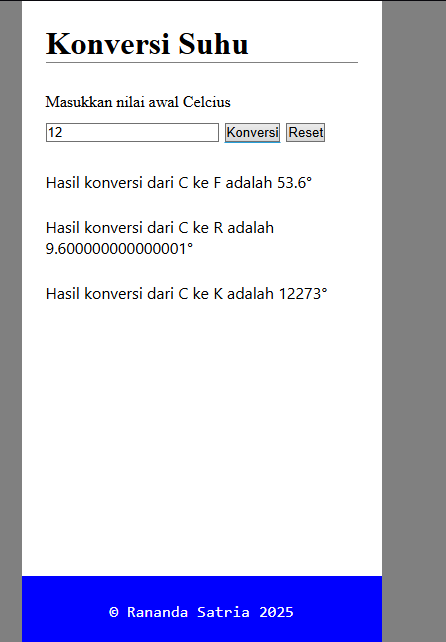
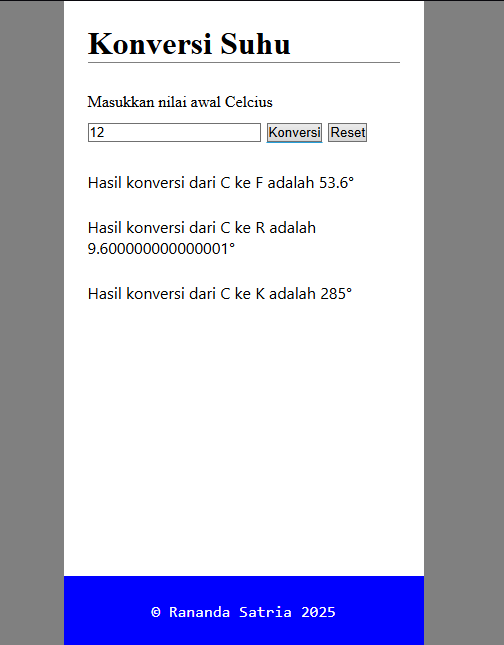
fix: change input data type to number

Changed region(s): [[0.0291, 0.0, 0.8744, 1.0], [0.2332, 0.9346, 0.6704, 0.9657]]

diff --git a/index.html b/index.html
@@ -12,7 +12,7 @@
               <form id="form-suhu">
                 <label for="celcius">Masukkan nilai awal Celcius</label>
                 <div>
-                    <input type="text" name="celcius" id="celcius">
+                    <input type="number" name="celcius" id="celcius">
                     <button type="submit">Konversi</button>
                     <button type="reset">Reset</button>
                 </div>

diff --git a/script.js b/script.js
@@ -21,15 +21,15 @@ form.addEventListener('submit', function (event){
       
 
 function celciusToFahrenheit(celcius) {
-    return (celcius * 9 / 5) + 32;
+    return (Number(celcius) * 9 / 5) + 32;
 }
 
 
 function celciusToReamur(celcius) {
-    return (4 / 5 * celcius);
+    return (4 / 5 * Number(celcius));
 }
 
 
 function celciusToKelvin(celcius) {
-    return celcius + 273;
+    return Number(celcius) + 273;
 }
